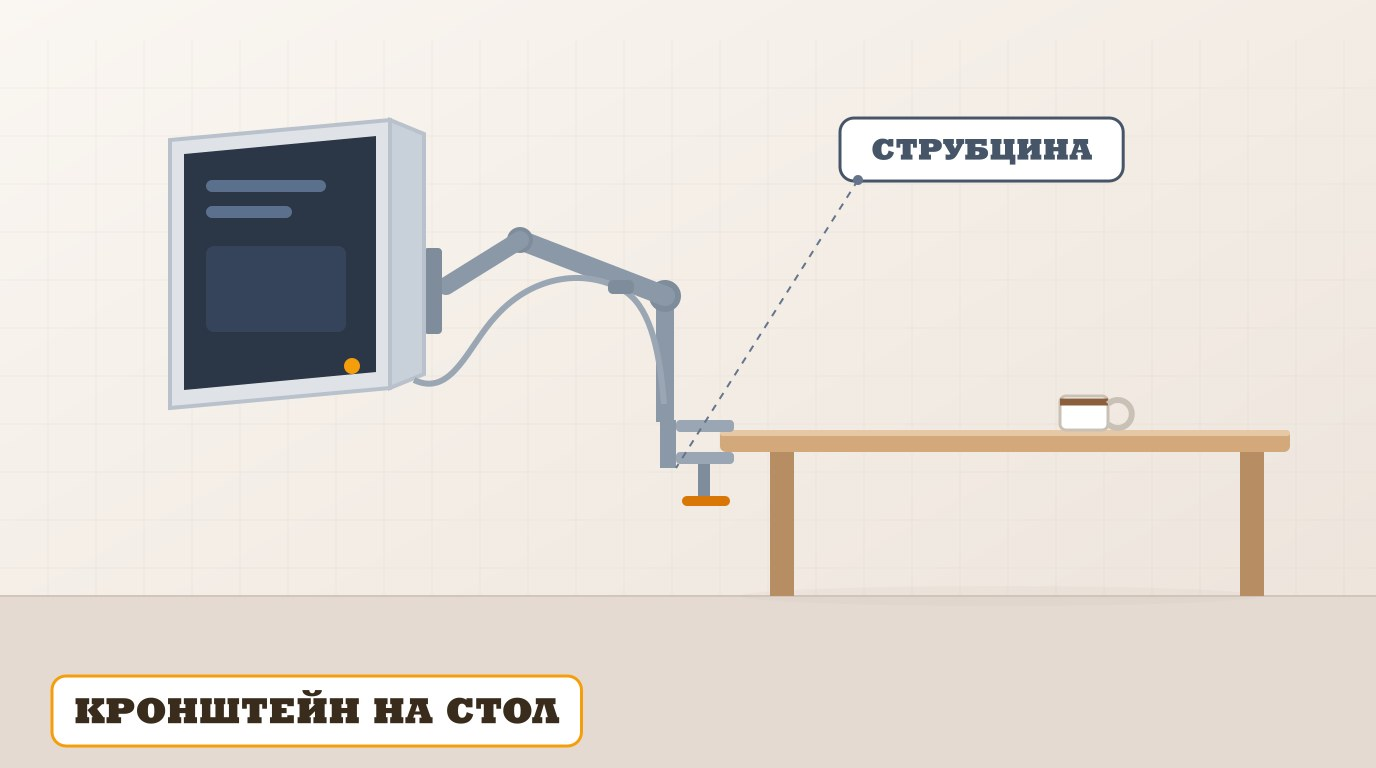
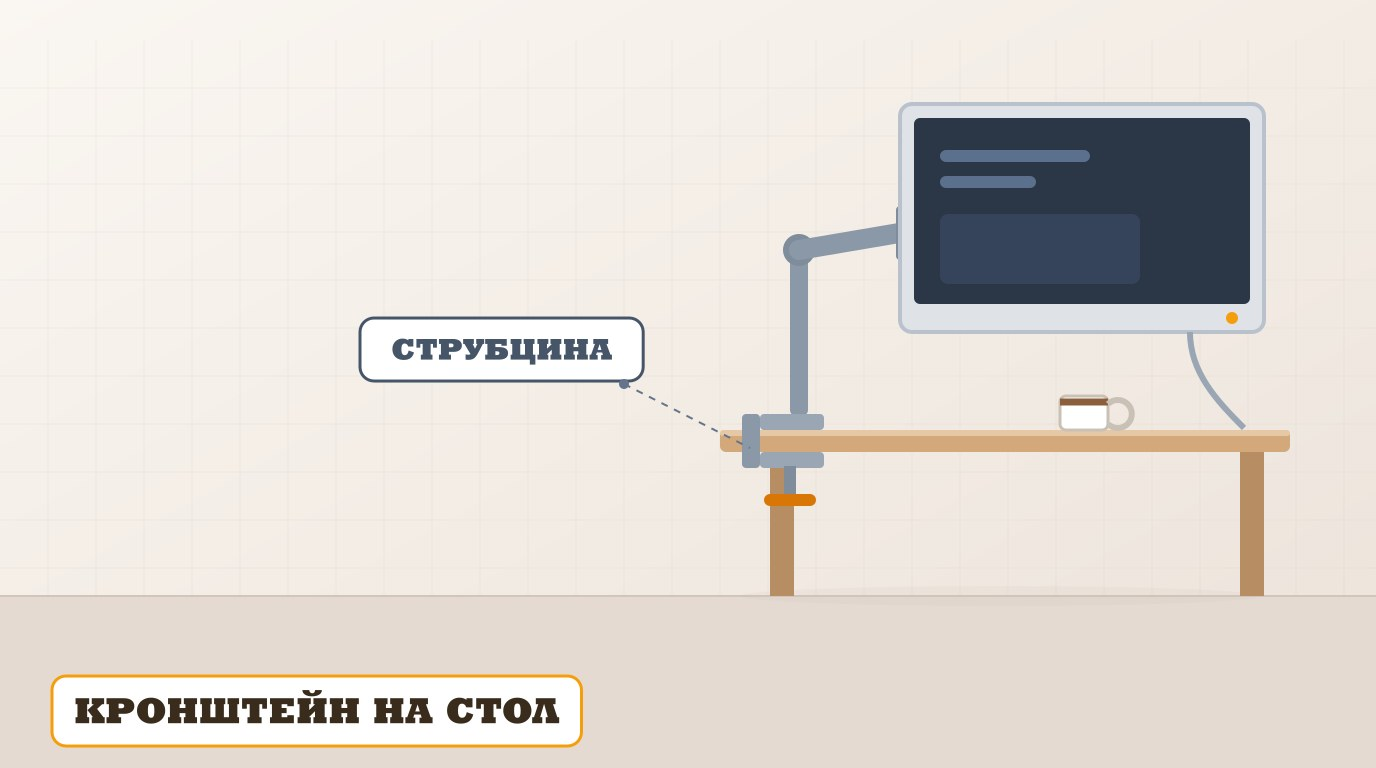
Поправить четыре обложки по пятому списку владельца
Светофор возвращён к версии до четвёртой итерации; второму человеку в общей
комнате добавлен стол; ножка стола больше не проходит через человека на
подставке для ног; монитор на кронштейне развёрнут экраном к столу. Заведена
T-169 на подбор фото владельцем.

🤖 Generated with Codebuff

Changed region(s): [[0.125, 0.125, 0.9375, 0.6875], [0.875, 0.5, 0.9062, 0.5625]]

diff --git a/docs/tasks.md b/docs/tasks.md
@@ -13,7 +13,7 @@ sitemap: 37 адресов
 бандл: 884513 Б из app/ (production-сборка Vite; было 1 560 551 Б)
 verify-build: всё чисто (312 файлов, 12,2 МБ), внешних счётчиков и чужих шрифтов нет
 прод: 3dacff5 (2026-11-22: HSTS включён, выложено всё накопленное из main — T-159; до этого 232814c, 2026-11-19: слэш на конце адресов статей в карточках, pushState и canonical; до этого 7618728 —: правки обложек №2, №8, №10, №20, №27 и всё накопленное отставание main — 114 картинок, 27 страниц статей, 27 файлов `data/`, бандл; до этого 584e350 — T-121 и T-122)
-доска: 163 задачи (37 активных), 9 вопросов (0 открытых) — 2026-11-22
+доска: 164 задачи (38 активных), 9 вопросов (0 открытых) — 2026-11-22
 ```
 
 Код на проде соответствует main: выложены порядок статей и даты (366d89c), ленивая админка и
@@ -26,6 +26,7 @@ verify-build: всё чисто (312 файлов, 12,2 МБ), внешних с
 - 2026-11-22: T-130 — история «Файл robots.txt» в GSC за месяц: 21.10 06:02 получен 88 Б, 01.11 04:26 получен 112 Б, 20.11 00:10 не получен, 20.11 02:22 получен 112 Б, 22.11 11:13 не получен, 22.11 13:22 получен 112 Б, 22.11 13:24 не получен. Все пять скачиваний после переезда 19.11 — на hothat: три успешных, два без ответа (размер не указан, то есть не 403/404, а обрыв или таймаут). Снаружи `robots.txt` — 200 с 8 узлов и 40 параллельных с UA Googlebot, значит файл в порядке, а хост изредка не отвечает части запросов робота. Заявка в поддержку hothat (логи `66.249.*`, firewall/Imunify360/ModSecurity, белый список `66.249.64.0/19`) стала обязательным шагом; срок T-130 сдвинут на 24.11, повторная проверка URL — 23.11 после 13:30.
 - 2026-11-22: T-130 — проверка GSC по статье про подъёмный стол: «Вариант страницы с тегом canonical», каноническая, выбранная Google, — `/?article=guide-standing-desk`, скан 18.11 02:40, то есть до T-132. На сайте `?article=` в статьях и sitemap не встречается, `canonical` на себя со слэшем — нужен новый обход («Запросить индексирование»). Корень на будущее — 301 с `?article=<id>` на статью (T-168).
 - 2026-11-22: четвёртая итерация обложек — 16 сцен перерисованы по списку владельца (№ 1, 3, 7, 8, 9, 10, 11, 12, 18, 20, 22, 23, 24, 25, 26, 27), коммит `c393542`; `heroImage` не менялись, на прод не выложено (`docs/image-plan.md`, T-167).
+- 2026-11-22: пятая итерация обложек — №25 «светофор» возвращён к версии до четвёртой итерации (`18357db`); №20 «двое в комнате» — второму человеку добавлен свой стол с клавиатурой, монитор развёрнут экраном к человеку; №8 «подставка для ног» — ножка стола больше не проходит через человека; №3 «кронштейн» — монитор развёрнут экраном к столу, струбцина обжимает столешницу. №24 «день с ребёнком» оставлен как есть: владелец подберёт фото сам — T-169 (до 06.12). `heroImage` не менялись, на прод не выложено.
 - 27 статей, у каждой есть привязка в каталоге (то есть блок товаров).
 - 51 оффер: 50 `card` с erid и рекламодателем, 1 `search` без erid (по правилам так и должно быть).
 - 2026-11-04 добавлены 17 товаров под темы аудита: док-станции (Thunderbolt 4, Ugreen CM681, Lenovo 40AY0090CN),

diff --git a/docs/image-plan.md b/docs/image-plan.md
@@ -96,6 +96,8 @@
 
 Проверено: все 27 файлов отрендерены и просмотрены контактным листом; в превью все 27 картинок 1376×768 загружаются без битых ссылок; текст внутри кадра не выходит за viewBox.
 
+2026-11-22, пятая итерация: владелец принял остальные кадры и перечислил четыре правки — №25 «светофор» вернули к версии до четвёртой итерации, №20 добавили второму человеку стол с клавиатурой и развернули монитор к нему, №8 убрали ножку стола из человека, №3 развернули монитор экраном к столу и посадили струбцину на столешницу. №24 «день с ребёнком» оставлен до решения владельца: он подберёт фото и передаст списком (T-169).
+
 ## 4. Живые фото внутри текста: 15 штук
 
 Снимаем или берём со стока только предмет, без логотипов, лиц и «конкретной модели товара». Промпты для генерации, поисковые запросы по стоку, имена файлов и готовые alt с подписями по каждому из 15 снимков — `docs/photo-prompts.md`.
